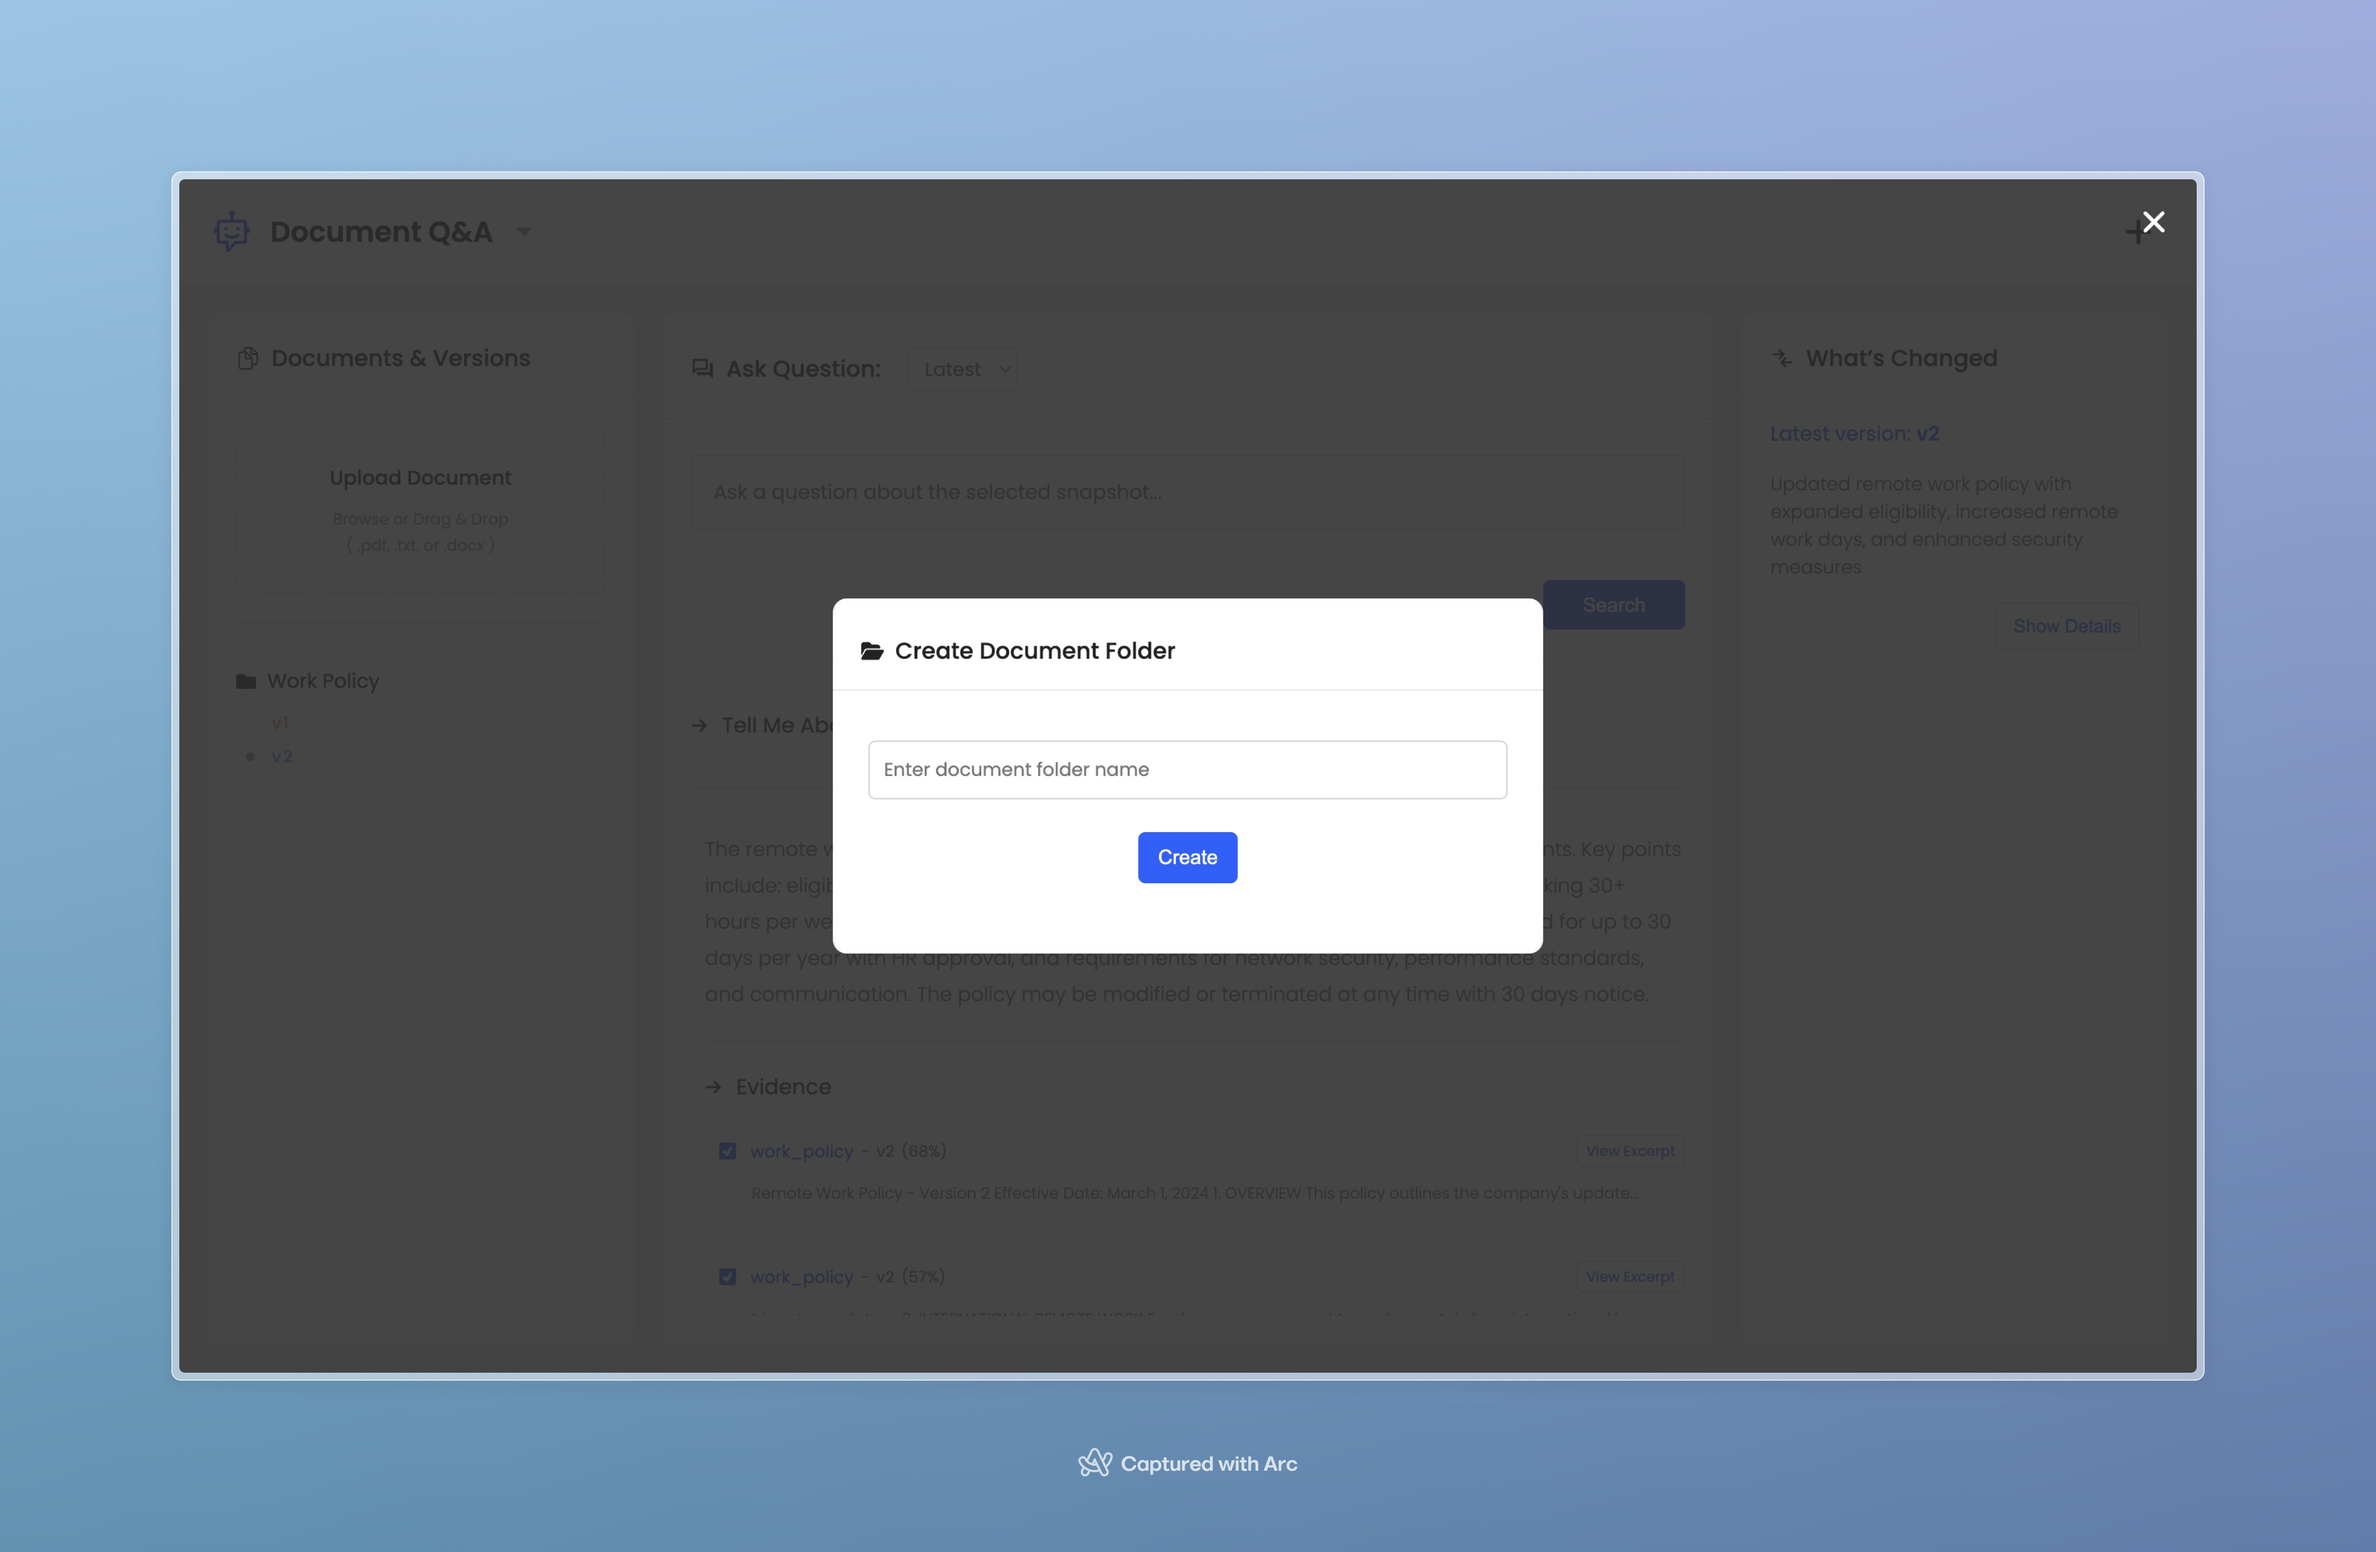
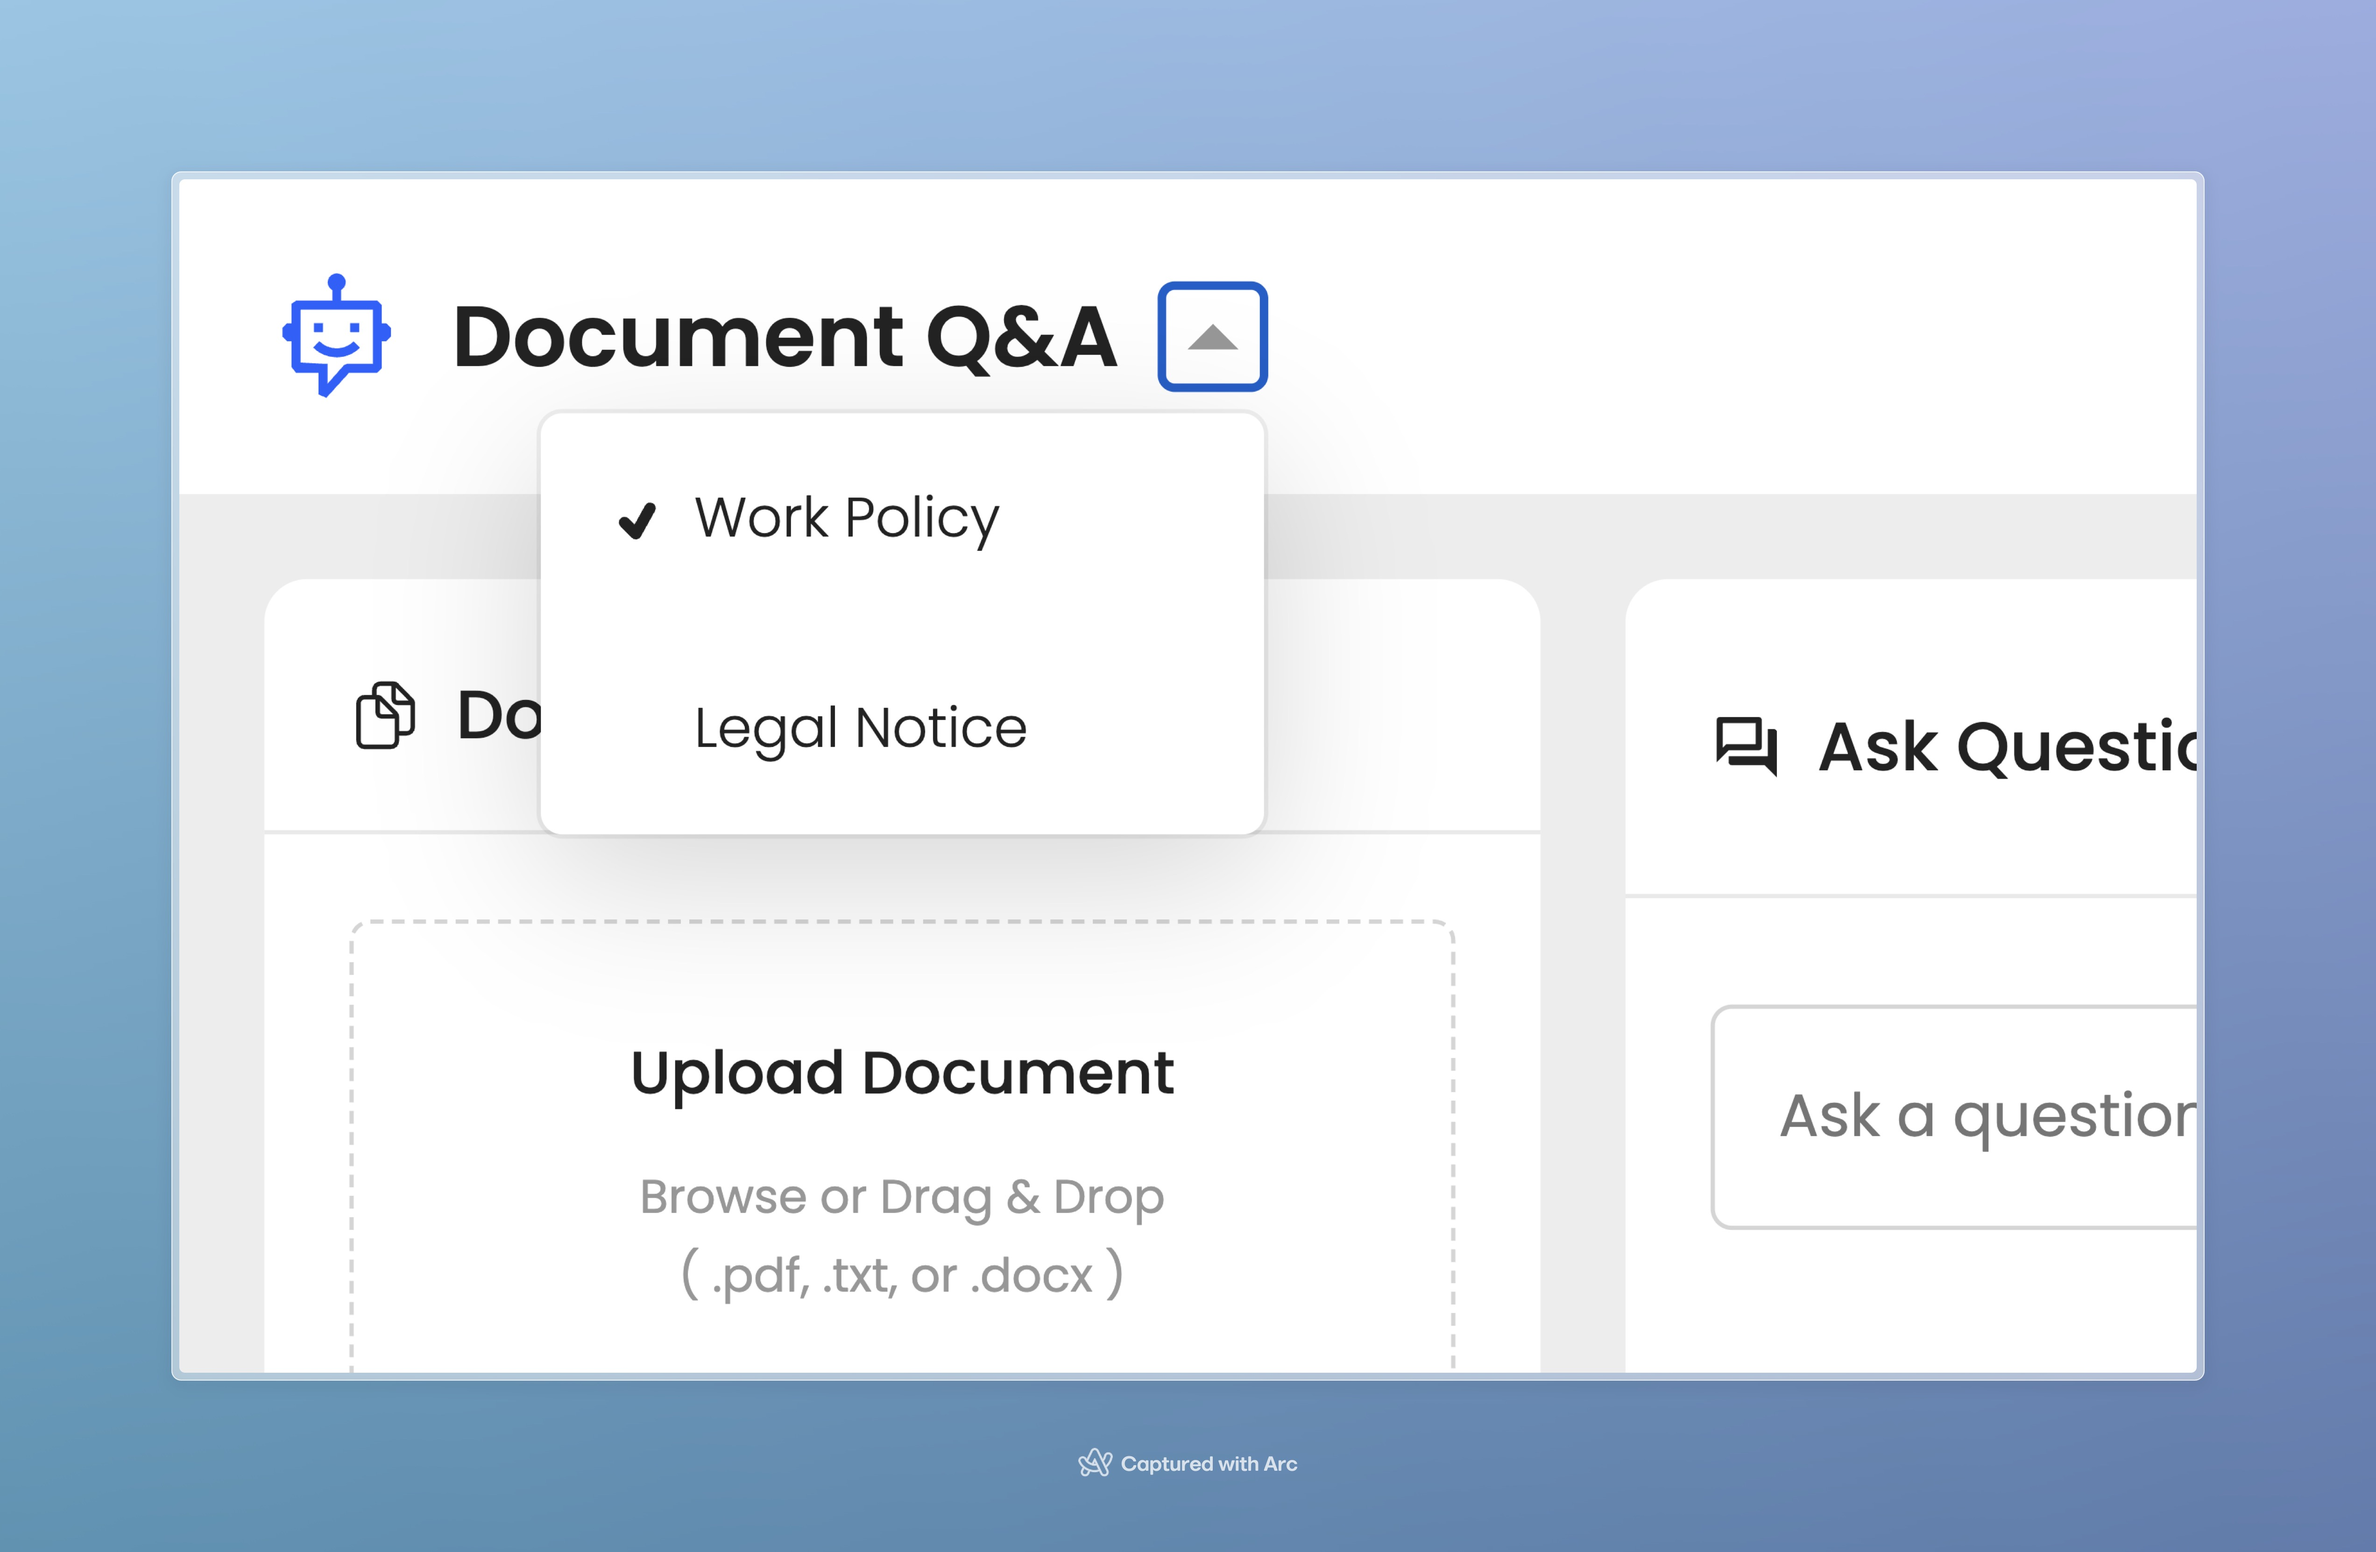
Add UI image to README.md

diff --git a/README.md b/README.md
@@ -8,7 +8,9 @@ A RAG system with built-in version control enabling semantic search and natural 
 
 ![Project Diff UI](./ui/public/imgs/2.jpeg)
 
-![Project Add Doc UI](./ui/public/imgs/3.jpeg)
+![Project Switch Doc UI](./ui/public/imgs/3.jpeg)
+
+![Project Add Doc UI](./ui/public/imgs/4.jpeg)
 
 ## Overview
 
